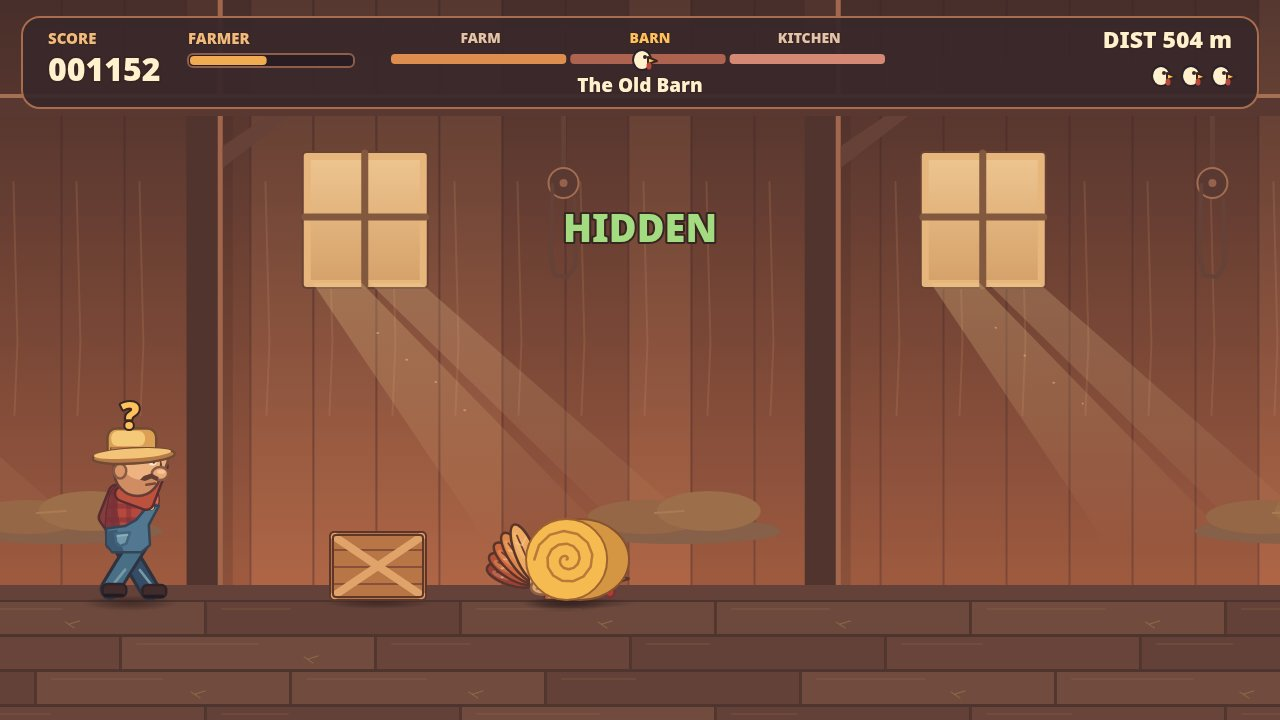
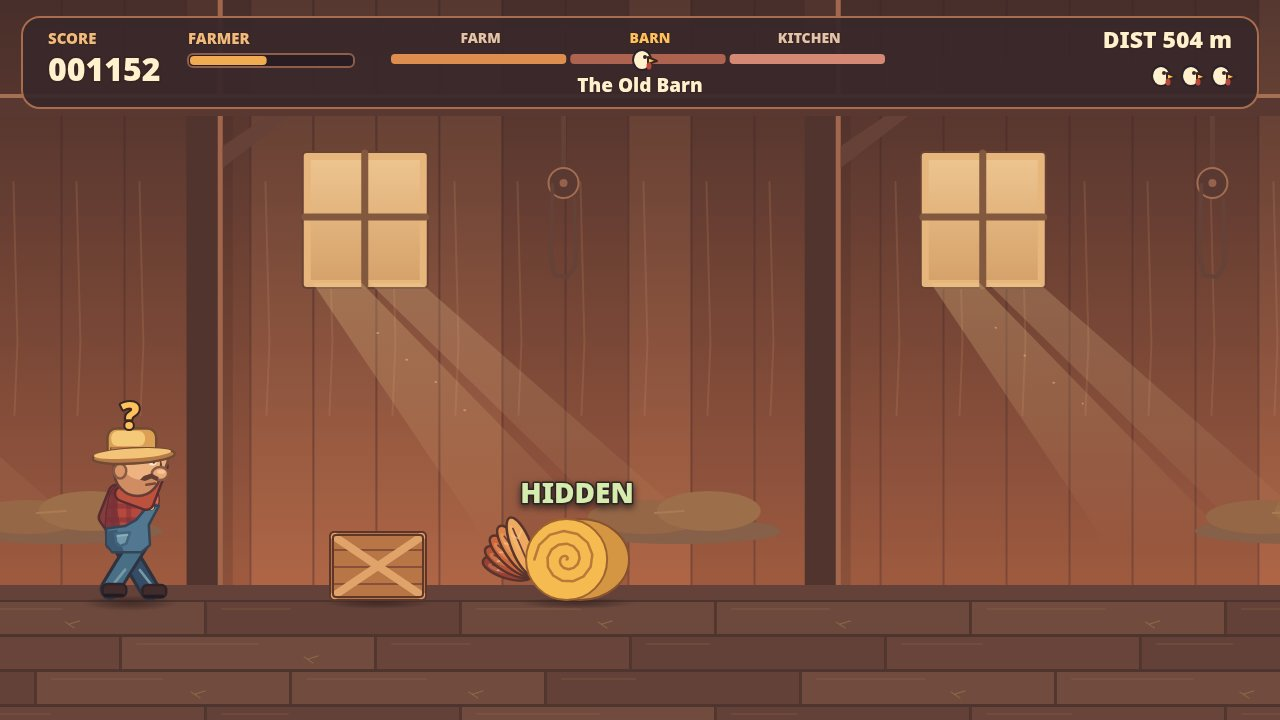
v3.2 micro-pass: styled HIDDEN label anchored above the hiding spot, raised tail peek in barn hide shot, ground shadow under kitchen knife block
- render.js only: HIDDEN text gets a thin dark outline and soft drop shadow matching the HUD/title styling, and is positioned above the turkey's active hiding spot in both gameplay and the staged barn shot
- Barn hide staging: slightly more of the tail fan shows above/behind the hay roll's left edge; body stays fully concealed
- Kitchen: carving-knife block (and any shadowless kitchen obstacle) gets the same soft elliptical ground shadow as the oven and characters
- No physics or balance changes (CHASE_SPEED, OBSTACLES_PER_1000PX, OVEN_COLLISION_HEIGHT 128, seed 20261127 untouched)
- Screenshots re-shot with the Playwright rig; playtest passes with 0 page errors; dossier byte-identical across runs

Changed region(s): [[0.375, 0.6417, 0.5, 0.825], [0.4375, 0.275, 0.5625, 0.3361]]

diff --git a/game/src/render.js b/game/src/render.js
@@ -361,8 +361,18 @@ export class Renderer {
     }
     this.drawEffects(state.cameraX);
     if (dashing) this.speedLines(state.turkey, state.cameraX);
-    this.drawTurkey(state.turkey, state.turkey.x - state.cameraX, state.farmer.state === 'lunge');
-    if (cover) this.drawItem(cover, cover.x - state.cameraX);
+    const turkeyX = state.turkey.x - state.cameraX;
+    if (cover) {
+      const c = this.ctx;
+      c.save();
+      c.translate(turkeyX - 4, this.ground - 7);
+      c.scale(CHARACTER_SCALE, CHARACTER_SCALE);
+      this.turkeyTail(-15, true, '#59342c');
+      c.restore();
+      this.drawItem(cover, cover.x - state.cameraX);
+    } else {
+      this.drawTurkey(state.turkey, turkeyX, state.farmer.state === 'lunge');
+    }
     this.drawFarmer(state.farmer, state.farmer.x - state.cameraX);
     if (!state.frozen || state.currentStage.id === 'farm') this.leaves(state.cameraX);
     this.endImpact(impact);
@@ -501,7 +511,7 @@ export class Renderer {
     const { w, h, kind } = item;
     const g = this.ground;
     const y = g - h;
-    if (kind !== 'corn') this.shadow(x + w / 2, g + 3, w * 0.57, 6, true);
+    if (kind !== 'corn' && kind !== 'knife') this.shadow(x + w / 2, g + 3, w * 0.57, 6, true);
     switch (kind) {
       case 'fence':
         this.round(x, y + 22, w, 11, 3, '#4d2c24');
@@ -566,6 +576,7 @@ export class Renderer {
         const [blade, block] = item.parts;
         const top = g - blade.bottom - blade.h;
         const bx = x + block.xOffset;
+        this.shadow(bx + block.w / 2, g + 3, block.w * 0.72, 6, true);
         this.round(bx, y + 14, block.w, h - 14, 5, '#955237', '#532f2c');
         this.rect(bx + 4, y + 22, block.w - 8, 6, '#cf8a53');
         this.line([[bx + 11, y + 32], [bx + 14, g - 7]], '#b6764d', 3);
@@ -649,6 +660,22 @@ export class Renderer {
     c.restore();
   }
 
+  turkeyTail(bodyY, duck, ink) {
+    const c = this.ctx;
+    const featherColors = ['#9b3f37', '#b65236', '#ce663d', '#dc8749', '#edaa60'];
+    for (let i = 0; i < featherColors.length; i++) {
+      const length = 40 + i * 2;
+      c.save();
+      c.translate(duck ? -22 : -16, bodyY + 2);
+      c.rotate(-1.39 + i * (duck ? 0.22 : 0.29) + (duck ? 0.13 : 0));
+      this.oval(0, -length * 0.55, 8, length * 0.51, featherColors[i], 0, ink);
+      this.oval(-2, -length * 0.71, 3, length * 0.23, '#ffcb8248');
+      this.line([[0, -10], [-1, -length + 6]], '#713d36', 1.4);
+      this.line([[-4, -length + 11], [0, -length + 15], [5, -length + 10]], '#ffcd8f85', 1.4);
+      c.restore();
+    }
+  }
+
   turkeyPose(x, y, turkey = {}, scale = 1, angle = 0) {
     const c = this.ctx;
     const duck = turkey.ducking;
@@ -671,18 +698,7 @@ export class Renderer {
       this.line([[foot + 2, -2 - lift], [foot + 6, -5 - lift]], '#dc8646', 1.6);
     }
 
-    const featherColors = ['#9b3f37', '#b65236', '#ce663d', '#dc8749', '#edaa60'];
-    for (let i = 0; i < featherColors.length; i++) {
-      const length = 40 + i * 2;
-      c.save();
-      c.translate(duck ? -22 : -16, bodyY + 2);
-      c.rotate(-1.39 + i * (duck ? 0.22 : 0.29) + (duck ? 0.13 : 0));
-      this.oval(0, -length * 0.55, 8, length * 0.51, featherColors[i], 0, ink);
-      this.oval(-2, -length * 0.71, 3, length * 0.23, '#ffcb8248');
-      this.line([[0, -10], [-1, -length + 6]], '#713d36', 1.4);
-      this.line([[-4, -length + 11], [0, -length + 15], [5, -length + 10]], '#ffcd8f85', 1.4);
-      c.restore();
-    }
+    this.turkeyTail(bodyY, duck, ink);
 
     const bodyWidth = duck ? 29 : 25;
     const bodyHeight = duck ? 12 : 18;
@@ -930,7 +946,22 @@ export class Renderer {
       c.restore();
     }
     if (state.flashSpotted > 0) this.text('SPOTTED!', this.w / 2, 231, 46, '#ff6854');
-    else if (turkey.hidden) this.text('HIDDEN', this.w / 2, 231, 38, '#a3db80');
+    else if (turkey.hidden) this.drawHiddenLabel(state);
+  }
+
+  drawHiddenLabel({ turkey, world, cameraX, shotCover }) {
+    const { x0, x1, headY } = turkey.hitbox();
+    const cover = shotCover ?? itemsInRange(world, x0, x1).find((item) => turkey.isHidden([item]));
+    const anchor = cover ? cover.x + cover.w / 2 : turkey.x;
+    const x = Math.max(68, Math.min(this.w - 68, anchor - cameraX));
+    const y = Math.min(headY, cover ? this.ground - cover.h : headY) - 24;
+    const c = this.ctx;
+    c.save();
+    c.shadowColor = '#211a1db8';
+    c.shadowBlur = 7;
+    c.shadowOffsetY = 3;
+    this.text('HIDDEN', x, y, 28, '#d6ebae', 'center', '#302724');
+    c.restore();
   }
 
   drawFarmerProximity(distance) {
